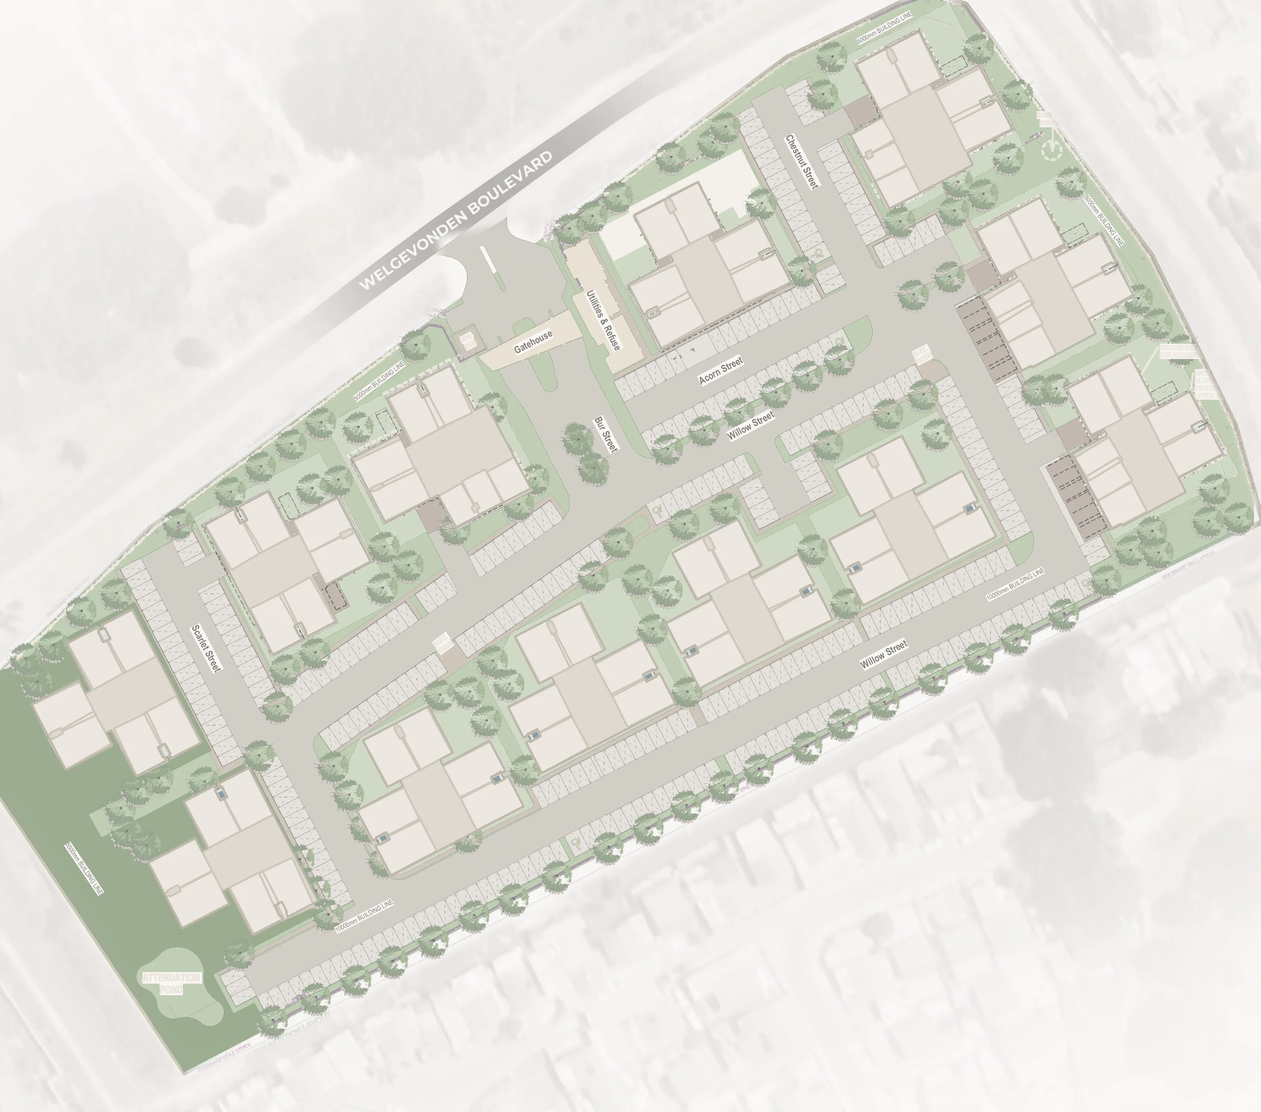
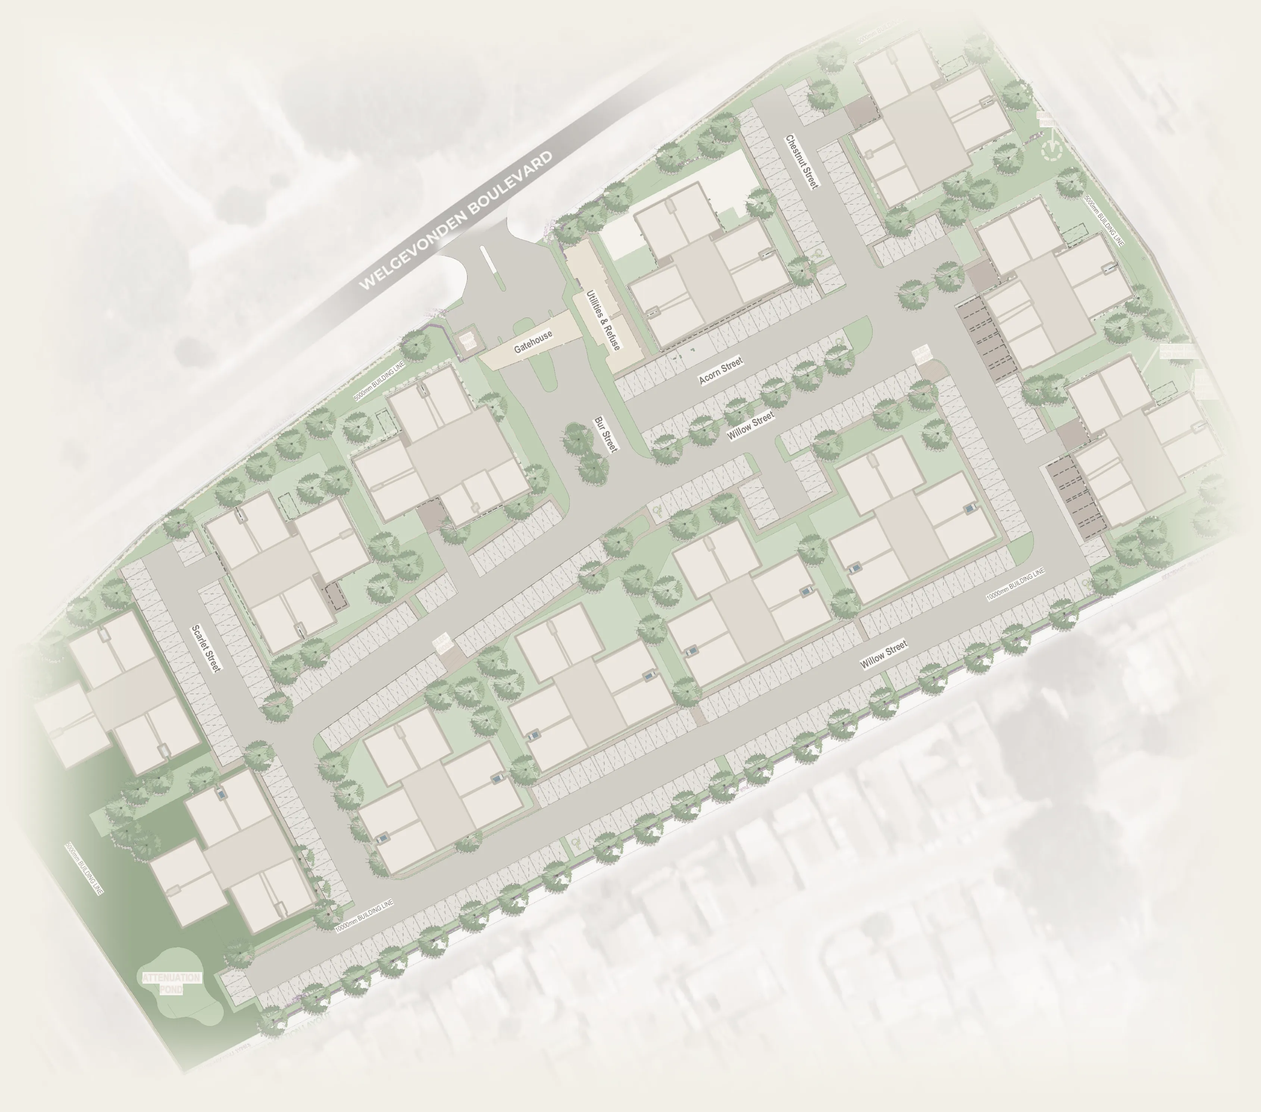
Oak Hills v2: page head/footer code under assets/oh/webflow, background v5 (edges faded to sand-50), bg4.py
Claude-Session: https://claude.ai/code/session_012CY4HeQudsEkw3kkqxBr8g

diff --git a/assets/oh/webflow/oh-v2-head.html b/assets/oh/webflow/oh-v2-head.html
@@ -1,0 +1,257 @@
+<!-- Oak Hills unit selection v2 - state CSS. Component classes live in the Designer; this block holds everything Webflow classes cannot express: attribute selectors, state classes set by heartland-oh.js, JS-generated markup and the mobile drawer. -->
+<meta name="robots" content="noindex, nofollow">
+<script>document.documentElement.classList.add('oh-app-pending');</script>
+<style>
+/* ---- tokens ---- */
+.page_wrap[data-oh-v2]{
+  --oh-available: var(--_colours---success--success-1, #7f9780);
+  --oh-reserved: var(--_colours---warning--warning-2, #ddb365);
+  --oh-sold: var(--_colours---error--error-2, #eb5853);
+  --oh-unreleased: var(--_colours---sand--s-300, #b5b3ad);
+  --oh-type-a: var(--_colours---mahogany--mahogany, #5f4d3f);
+  --oh-type-b: var(--_colours---merlot--m-100, #c7907b);
+  --oh-type-c: var(--_colours---vinyard-night--vn-200, #6f786c);
+  --oh-ink: var(--_colours---mahogany--mahogany, #5f4d3f);
+  --oh-accent: var(--_colours---merlot--m-200, #af6042);
+  --oh-line: var(--_colours---sand--s-100, #dedbd3);
+  --oh-sand: var(--_colours---sand--s-50, #f2efe6);
+}
+.site-plan_card-title,.site-plan_tooltip-id,.unit-details_price,.unit-details_spec-value{font-family:var(--_typography---font--secondary-family, "Tenor Sans", serif)}
+
+/* ---- legend swatches & pills ---- */
+.site-plan_legend-swatch.is-available{background:var(--oh-available)}
+.site-plan_legend-swatch.is-reserved{background:var(--oh-reserved)}
+.site-plan_legend-swatch.is-sold{background:var(--oh-sold)}
+.site-plan_legend-swatch.is-unreleased{background:var(--oh-unreleased)}
+.site-plan_legend-swatch.is-type-a{background:var(--oh-type-a)}
+.site-plan_legend-swatch.is-type-b{background:var(--oh-type-b)}
+.site-plan_legend-swatch.is-type-c{background:var(--oh-type-c)}
+.site-plan_legend-group.is-legend-hidden{display:none}
+html:not(.legends-ready) .site-plan_legend-group[data-legend-group="type"]{display:none}
+.site-plan_pill.is-available{background:var(--oh-available)}
+.site-plan_pill.is-reserved,.site-plan_pill.is-pending{background:var(--oh-reserved);color:var(--oh-ink)}
+.site-plan_pill.is-sold,.site-plan_pill.is-sold-out{background:var(--oh-sold)}
+.site-plan_pill.is-unreleased{background:var(--oh-unreleased);color:var(--oh-ink)}
+
+/* ---- toggles, chips, sort ---- */
+.site-plan_colourby-btn.is-active,.unit-filter_view-btn.is-current{background:#fff;color:var(--oh-ink);box-shadow:0 1px 4px rgba(21,23,20,.12)}
+.site-plan_sort-btn.is-active{background:var(--oh-sand);color:var(--oh-ink)}
+[data-filter][data-value]:hover,[data-toggle]:hover{border-color:var(--oh-ink)}
+[data-filter][data-value].is-active,[data-toggle].is-active{background:var(--oh-ink);border-color:var(--oh-ink);color:#fff}
+[data-filter][data-value].is-active .unit-filter_count,[data-toggle].is-active .unit-filter_count{color:rgba(255,255,255,.7)}
+[data-filter][data-value].is-disabled,[data-toggle].is-disabled{opacity:.4;pointer-events:none;cursor:default}
+[data-filter][data-value].is-coming-soon{opacity:.55;pointer-events:none;cursor:default}
+.unit-filter_soon,.site-plan_legend-soon{display:inline-block;margin-left:.4rem;padding:.1rem .45rem;border-radius:999px;background:var(--oh-sand);color:var(--oh-ink);font-size:.6875rem;line-height:1.4;white-space:nowrap}
+.site-plan_legend-item.is-coming-soon{opacity:.6}
+.site-plan_switch-label{display:inline-flex;align-items:center;padding:0 .5rem 0 .75rem;font-size:.6875rem;letter-spacing:.08em;text-transform:uppercase;color:var(--oh-ink);opacity:.7;white-space:nowrap}
+.unit-filter_more-list.svx-more-collapsed{max-height:0!important;margin:0}
+.unit-filter_more-list.svx-more-open{max-height:none}
+.unit-filter_more-button.is-open .unit-filter_more-icon{transform:rotate(-135deg);margin-top:.25rem}
+
+/* ---- map: block footprints ---- */
+.site-plan_map-svg .site-plan_block{fill:var(--oh-unreleased);fill-opacity:.55;stroke:#fff;stroke-width:2;cursor:pointer;transition:fill .2s,fill-opacity .2s,stroke .2s}
+.is-colour-status .site-plan_block[data-availability="available"]{fill:var(--oh-available);fill-opacity:.7}
+.is-colour-status .site-plan_block[data-availability="sold-out"]{fill:var(--oh-sold);fill-opacity:.55}
+.is-colour-status .site-plan_block[data-availability="unreleased"]{fill:var(--oh-unreleased);fill-opacity:.5}
+.is-colour-type .site-plan_block{fill:var(--oh-type-a);fill-opacity:.55}
+.site-plan_map-svg .site-plan_block:hover{fill-opacity:.9}
+.site-plan_map-svg .site-plan_block.is-selected{stroke:var(--oh-ink);stroke-width:4;fill-opacity:.9}
+.site-plan_map-svg .site-plan_block.is-dimmed{fill-opacity:.15;stroke-opacity:.5}
+/* phase 2: unit-level plots share the same states */
+.site-plan_map-svg .site-plan_plot{cursor:pointer;stroke:#fff;stroke-width:1}
+.is-colour-status .site-plan_plot[data-status="available"]{fill:var(--oh-available)}
+.is-colour-status .site-plan_plot[data-status="reserved"],.is-colour-status .site-plan_plot[data-status="pending"]{fill:var(--oh-reserved)}
+.is-colour-status .site-plan_plot[data-status="sold"]{fill:var(--oh-sold)}
+.is-colour-status .site-plan_plot[data-status="unreleased"]{fill:var(--oh-unreleased)}
+.is-colour-type .site-plan_plot[data-type="A"]{fill:var(--oh-type-a)}
+.is-colour-type .site-plan_plot[data-type="B"]{fill:var(--oh-type-b)}
+.is-colour-type .site-plan_plot[data-type="C"]{fill:var(--oh-type-c)}
+.is-colour-type .site-plan_plot[data-status="unreleased"]{fill:var(--oh-unreleased)}
+@media (hover:hover){.site-plan_map-svg .site-plan_plot{fill-opacity:.72;transition:fill-opacity .15s}.site-plan_map-svg .site-plan_plot:hover,.site-plan_map-svg .site-plan_plot.is-selected{fill-opacity:1}}
+.site-plan_plot.is-dimmed{opacity:.2}
+.site-plan_plot.is-selected{stroke:var(--oh-ink);stroke-width:3}
+.site-plan_map-svg .site-plan_plot[data-status="unreleased"]{cursor:pointer;fill-opacity:.7}.site-plan_map-svg .site-plan_plot[data-status="unreleased"]:hover{fill-opacity:1}
+.site-plan_map-svg .site-plan_plot.is-static{cursor:default}
+.site-plan_tooltip [hidden]{display:none!important}
+.site-plan_map-canvas.has-floors [data-floor]:not(.is-current){display:none}
+.unit-filter_map{position:relative}
+/* labels: unit numbers scale with the plan and fade out when zoomed out; estate labels grow when zoomed out */
+.site-plan_unit-label{font-family:var(--_typography---font--primary-family, "Helvetica Neue", sans-serif);font-size:9px;font-weight:600;fill:#3f3329;pointer-events:none;paint-order:stroke;stroke:rgba(255,255,255,.8);stroke-width:2px;stroke-linejoin:round;opacity:clamp(0,calc((var(--oh-zoom,1) - .65) / .3),1);transition:opacity .2s}
+.site-plan_unit-label.is-bay{font-size:5px;stroke-width:1.2px}
+.site-plan_unit-label[data-status="unreleased"],.site-plan_unit-label.is-dimmed{display:none}
+.site-plan_feature{font-family:var(--_typography---font--primary-family, "Helvetica Neue", sans-serif);font-size:calc(15px / var(--oh-zoom,1));letter-spacing:.06em;text-transform:uppercase;fill:#6b5d50;pointer-events:none;paint-order:stroke;stroke:rgba(246,244,238,.85);stroke-width:calc(4px / var(--oh-zoom,1));opacity:clamp(.35,calc(1.6 - var(--oh-zoom,1) * .7),1)}
+.site-plan_feature.is-street{font-size:calc(13px / var(--oh-zoom,1));fill:#7a6b5d}
+.site-plan_feature.is-road{font-size:calc(19px / var(--oh-zoom,1));fill:#5f4d3f}
+.site-plan_feature.is-area{font-size:calc(24px / var(--oh-zoom,1));fill:#9b9187;letter-spacing:.14em}
+.site-plan_map-canvas:not(.has-floors) [data-layer="features"],.site-plan_map-canvas.has-floors [data-layer="features"]{pointer-events:none}
+/* parking level */
+.site-plan_map-svg .site-plan_bay-free{fill:#fff;fill-opacity:.35;stroke:rgba(95,77,63,.35);stroke-width:.6;pointer-events:none}
+.site-plan_map-svg .site-plan_plot.is-bay{stroke:#fff;stroke-width:.6}
+.site-plan_map-canvas.is-parking-view .site-plan_block{fill-opacity:.12}
+.site-plan_map-canvas.has-floors .site-plan_block{pointer-events:none;fill-opacity:.25}
+.site-plan_map-canvas.has-floors .site-plan_block.is-selected{stroke-width:3}
+.site-plan_floor-switch{position:absolute;left:.75rem;top:.75rem;z-index:5;display:inline-flex;gap:.25rem;padding:.25rem;border-radius:999px;background:#fff;box-shadow:0 4px 14px rgba(21,23,20,.15)}
+.site-plan_floor-btn{display:inline-flex;align-items:center;gap:.35rem;padding:.35rem .75rem;border:0;border-radius:999px;background:transparent;color:var(--oh-ink);font:inherit;font-size:.8125rem;line-height:1;cursor:pointer;transition:background .15s,color .15s}
+.site-plan_floor-btn:hover{background:var(--oh-sand)}
+.site-plan_floor-btn.is-active{background:var(--oh-ink);color:#fff}
+.site-plan_floor-count{font-size:.6875rem;opacity:.65}
+.site-plan_floor-count:empty{display:none}
+@media (max-width:767px){.site-plan_floor-switch{left:.5rem;top:.5rem;padding:.2rem}.site-plan_floor-btn{padding:.3rem .55rem}.site-plan_floor-count{display:none}}
+/* viewport: the container is a fixed-height box, the stage inside carries half-viewport padding, the canvas an explicit px width (heartland-oh.js) */
+.unit-filter_map-container{position:relative;overflow:hidden;height:min(72vh,44rem);background:var(--_colours---backgrounds--white,#fff);border-radius:var(--radius--main,.75rem);cursor:grab;touch-action:none;overscroll-behavior:contain}
+.unit-filter_map-container.is-panning{cursor:grabbing}
+.site-plan_map{display:block;width:max-content;min-width:100%;overflow:visible}
+.site-plan_map-canvas{position:relative;width:1200px;min-width:0;margin:0;aspect-ratio:1690/1490}
+.site-plan_map-canvas .site-plan_map-image{display:block;width:100%;height:auto}
+.site-plan_zoom{position:absolute;right:.75rem;bottom:.75rem;z-index:5;display:inline-flex;align-items:center;gap:.25rem;padding:.25rem;border-radius:999px;background:#fff;box-shadow:0 4px 14px rgba(21,23,20,.15)}
+.site-plan_zoom-btn{display:inline-flex;align-items:center;justify-content:center;width:2rem;height:2rem;border:0;border-radius:999px;background:transparent;color:var(--oh-ink);cursor:pointer}
+.site-plan_zoom-btn:disabled{opacity:.35;cursor:default}
+.site-plan_zoom-btn svg{width:1.1rem;height:1.1rem;fill:none;stroke:currentColor;stroke-width:1.8;stroke-linecap:round;stroke-linejoin:round}
+.site-plan_zoom-level{min-width:3rem;text-align:center;font-size:.75rem;color:var(--oh-ink)}
+.site-plan_tooltip.is-visible{opacity:1}
+
+/* ---- detail panel ---- */
+.site-plan_detail-wrap.is-open{visibility:visible;opacity:1;pointer-events:auto;transition:opacity .25s}
+.site-plan_detail-wrap.is-open .site-plan_detail-panel{transform:none}
+.unit-details_nav-link.is-active{color:var(--oh-ink);border-bottom-color:var(--oh-ink)}
+.unit-details_stage .ud-media{display:block;width:100%;height:100%;object-fit:cover}
+.ud-playbtn,.ud-expand{position:absolute;display:flex;align-items:center;justify-content:center;border-radius:999px;background:rgba(255,255,255,.92);color:var(--oh-ink);cursor:pointer;box-shadow:0 4px 14px rgba(21,23,20,.18)}
+.ud-playbtn{top:50%;left:50%;width:3.5rem;height:3.5rem;transform:translate(-50%,-50%)}
+.ud-expand{right:.75rem;bottom:.75rem;width:2.25rem;height:2.25rem}
+.ud-playbtn svg,.ud-expand svg{width:45%;height:45%}
+.unit-details_thumbnail{position:relative;flex:0 0 4.5rem;height:3.25rem;overflow:hidden;border-radius:.375rem;border:2px solid transparent;cursor:pointer;opacity:.75;transition:opacity .15s,border-color .15s}
+.unit-details_thumbnail img,.unit-details_thumbnail video{width:100%;height:100%;object-fit:cover;display:block}
+.unit-details_thumbnail.is-current{opacity:1;border-color:var(--oh-ink)}
+.unit-details_thumb-badge{position:absolute;right:.25rem;bottom:.25rem;width:1.1rem;height:1.1rem;color:#fff;filter:drop-shadow(0 1px 2px rgba(0,0,0,.5))}
+.unit-details_thumb-badge svg{width:100%;height:100%}
+.unit-details_floorplan-image img,.unit-details_block-image img{display:block;width:100%;height:auto}
+html:not(.sales-open) [data-sales-ui]{display:none!important}
+html:not(.sales-open) [data-prelaunch-ui]{display:inline-flex}
+[data-prelaunch-ui]{display:none}
+
+/* ---- lightboxes (built by heartland-oh.js) ---- */
+.ud-lightbox,.fp-lightbox{position:fixed;inset:0;z-index:2147483100;display:none;align-items:center;justify-content:center;background:rgba(21,23,20,.92)}
+.ud-lightbox.is-open,.fp-lightbox.is-open{display:flex}
+.unit-details_floorplan-image img[src=""],.unit-details_floorplan-image img:not([src]){display:none}
+.ud-lightbox_stage{width:min(92vw,1200px);height:min(86vh,800px);display:flex;align-items:center;justify-content:center}
+.ud-lightbox_stage img,.ud-lightbox_stage video,.ud-lightbox_stage iframe{max-width:100%;max-height:100%;width:auto;height:auto;border:0}
+.ud-lightbox_stage iframe{width:100%;height:100%}
+.ud-lb-btn,.fp-lightbox_close{position:absolute;display:flex;align-items:center;justify-content:center;width:2.75rem;height:2.75rem;border:0;border-radius:999px;background:rgba(255,255,255,.14);color:#fff;font-size:1.5rem;line-height:1;cursor:pointer}
+.ud-lb-close,.fp-lightbox_close{top:1rem;right:1rem}
+.ud-lb-prev{left:1rem;top:50%;transform:translateY(-50%)}
+.ud-lb-next{right:1rem;top:50%;transform:translateY(-50%)}
+.ud-lb-counter{position:absolute;bottom:1rem;left:50%;transform:translateX(-50%);color:rgba(255,255,255,.75);font-size:.8125rem}
+.fp-zoom{width:min(92vw,1100px);max-height:88vh;overflow:auto;background:#fff;border-radius:.5rem;cursor:zoom-in}
+.fp-zoom img{display:block;width:100%;height:auto}
+.fp-zoom.is-zoomed{cursor:zoom-out}
+.fp-zoom.is-zoomed img{width:auto;max-width:none}
+.reservation-status{font-size:.9rem}
+
+/* ---- app shell: no page scroll; sidebar (brand + filters) | plan | list; footer bar ---- */
+html.oh-app-pending .page_wrap{visibility:hidden;animation:oh-reveal 0s 3s forwards}
+@keyframes oh-reveal{to{visibility:visible}}
+html:has(.page_wrap[data-oh-v2]){overflow:hidden;height:100%}
+html:has(.page_wrap[data-oh-v2]) body{overflow:hidden;height:100%}
+.page_wrap[data-oh-v2]{height:100vh;height:100dvh;overflow:hidden;display:flex;flex-direction:column}
+.page_wrap[data-oh-v2] .navbar_component,.page_wrap[data-oh-v2] .section.is-footer,.page_wrap[data-oh-v2] .section.is-unit-selection-v2{display:none}
+.page_wrap[data-oh-v2] .page_main{flex:1 1 auto;min-height:0;display:flex;flex-direction:column}
+.page_wrap[data-oh-v2] .section.is-site-plan{flex:1 1 auto;min-height:0;padding:0;display:flex;flex-direction:column}
+.page_wrap[data-oh-v2] .section.is-site-plan .u-container{max-width:none;width:100%;flex:1 1 auto;min-height:0;display:flex;flex-direction:column}
+.page_wrap[data-oh-v2] .container-padding.is-unit-selector{padding:0;flex:1 1 auto;min-height:0;display:flex;flex-direction:column}
+.unit-filter_component{flex:1 1 auto;min-height:0;display:grid;gap:0;height:auto;background:#fff;align-items:stretch;justify-items:stretch}
+.unit-filter_brand{grid-area:brand}
+.unit-filter_filters{grid-area:filters}
+.unit-filter_main{grid-area:main;min-height:0;display:flex;flex-direction:column;position:relative}
+.site-plan_list-wrap{grid-area:list;min-height:0;display:flex;flex-direction:column}
+.unit-filter_footer{grid-area:footer}
+.unit-filter_map{flex:1 1 auto;min-height:0;display:flex;flex-direction:column;position:relative}
+.unit-filter_map-container{flex:1 1 auto;min-height:0;height:auto;border-radius:0;background:var(--oh-sand)}
+.site-plan_list-head{flex:none;padding:.9rem 1rem .6rem;border-bottom:1px solid var(--oh-line)}
+.site-plan_list{flex:1 1 auto;min-height:0;overflow:auto;overscroll-behavior:contain;padding:1rem;grid-template-columns:1fr;grid-template-rows:none;grid-auto-rows:max-content;align-content:start}
+/* filters: the head stays put, only the chips scroll */
+.unit-filter_filters{display:flex;flex-direction:column;min-height:0;overflow:hidden;padding:0}
+.unit-filter_filters .unit-filter_inner{display:flex;flex-direction:column;min-height:0;flex:1 1 auto}
+.unit-filter_head{flex:none;padding:.75rem 1.25rem;border-bottom:1px solid var(--oh-line)}
+.unit-filter_scroll{flex:1 1 auto;min-height:0;overflow:auto;overscroll-behavior:contain;padding:1rem 1.25rem 1.5rem}
+/* colour-by + legend float on the plan */
+.unit-filter_map .site-plan_toolbar{position:absolute;top:.75rem;right:.75rem;z-index:6;display:flex;flex-direction:column;align-items:flex-end;gap:.5rem;pointer-events:none;max-width:calc(100% - 1.5rem)}
+.unit-filter_map .site-plan_toolbar>*{pointer-events:auto}
+.unit-filter_map .site-plan_colourby{background:#fff;border-radius:999px;box-shadow:0 4px 14px rgba(21,23,20,.15)}
+.unit-filter_map .site-plan_legend{background:rgba(255,255,255,.92);border-radius:.75rem;padding:.45rem .8rem;box-shadow:0 4px 14px rgba(21,23,20,.12);font-size:.8125rem}
+@media (min-width:992px){
+  /* the brand row is a fixed track: the plan and list span rows 1-2, and an auto track would grow to their content */
+  .unit-filter_component{grid-template-columns:16rem minmax(0,1fr) 20rem;grid-template-rows:6.5rem minmax(0,1fr) auto;grid-template-areas:"brand main list" "filters main list" "footer footer footer"}
+  .unit-filter_brand{height:6.5rem;overflow:hidden;justify-content:center;padding:0 1.25rem}
+  .unit-filter_main,.site-plan_list-wrap{overflow:hidden}
+  .unit-filter_brand,.unit-filter_filters{border-right:1px solid var(--oh-line)}
+  .site-plan_list-wrap{border-left:1px solid var(--oh-line)}
+  .unit-filter_mobile-toolbar,.unit-filter_mobile-map-meta{display:none}
+}
+@media (min-width:1280px){.unit-filter_component{grid-template-columns:17rem minmax(0,1fr) 22rem}}
+/* ---- detail panel: sticky actions, above the chat widget ---- */
+.site-plan_detail-wrap{z-index:2147483000}
+.site-plan_detail-panel{display:flex;flex-direction:column}
+.unit-details_body{flex:1 1 auto}
+.unit-details_actionbar{position:sticky;bottom:0;padding-bottom:calc(.875rem + env(safe-area-inset-bottom,0px))}
+.unit-details_actionbar .button{width:100%;justify-content:center}
+.unit-details_fp-img[src=""],.unit-details_fp-img:not([src]){display:none}
+/* the block: render + level highlight, estate + block highlight */
+.unit-details_block-image.has-ud-block>img{display:none}
+.ud-block{display:grid;gap:1rem}
+.ud-block_fig{margin:0}
+.ud-block_stack{position:relative;overflow:hidden;border-radius:.5rem;background:var(--oh-sand)}
+.ud-block_base{display:block;width:100%;height:auto}
+.ud-block_overlay{position:absolute;inset:0;width:100%;height:100%;object-fit:fill;pointer-events:none}
+.ud-block_cap{margin-top:.4rem;font-size:.8125rem;color:var(--_colours---blacks--b-150,#7e7e7d)}
+/* tooltip: status as the same pill as the cards */
+.site-plan_tooltip .site-plan_pill{display:inline-block;padding:.25rem .625rem;border-radius:999px;font-size:.75rem;line-height:1.5;letter-spacing:.04em;text-transform:uppercase;color:#fff;background:var(--oh-unreleased)}
+/* chips: coming soon replaces the count; a fully reserved/sold block reads so */
+[data-filter][data-value].is-coming-soon .unit-filter_count,.site-plan_legend-item.is-coming-soon .site-plan_legend-count{display:none}
+[data-filter][data-value].is-taken{grid-column:span 2;width:100%;min-width:0;display:inline-flex;align-items:center;justify-content:center;gap:.35rem;border-radius:999px;padding:0 .5rem}
+[data-filter][data-value].is-taken .unit-filter_count{font-size:.625rem;letter-spacing:.01em;color:var(--oh-sold);white-space:nowrap;margin:0}
+[data-filter][data-value].is-coming-soon>span:first-child{white-space:nowrap}
+/* coming-soon / reserve popups: unit details left, form right */
+#notify-unit-v2 .modal-content,#reserve-unit-v2 .modal-content{max-width:72rem}
+#notify-unit-v2 .contact-2-col-stack,#reserve-unit-v2 .contact-2-col-stack{display:grid;grid-template-columns:minmax(0,1.1fr) minmax(0,1fr);gap:2.5rem 3rem;align-items:start}
+#notify-unit-v2 .contact-2-col-stack>.content-cell,#reserve-unit-v2 .contact-2-col-stack>.content-cell{min-width:0}
+#notify-unit-v2 .form-main-wrapper,#reserve-unit-v2 .form-main-wrapper{gap:1.1rem}
+#notify-unit-v2 [data-notify="fields"],#notify-unit-v2 [data-notify="fields"] .content-cell{display:flex;flex-direction:column;gap:1.1rem}
+#notify-unit-v2 ._2-col-input-stack{display:grid;grid-template-columns:repeat(2,minmax(0,1fr));gap:1rem}
+#notify-unit-v2 .form_main_field_wrap,#reserve-unit-v2 .form_main_field_wrap{display:flex;flex-direction:column;gap:.35rem}
+#notify-unit-v2 [type="submit"],#notify-unit-v2 .w-button,#reserve-unit-v2 [type="submit"],#reserve-unit-v2 .w-button{margin-top:1.25rem}
+@media (max-width:767px){#notify-unit-v2 .contact-2-col-stack,#reserve-unit-v2 .contact-2-col-stack{grid-template-columns:1fr;gap:1.75rem}#notify-unit-v2 ._2-col-input-stack{grid-template-columns:1fr}}
+
+/* ---- tablet & mobile: brand bar, Plan|List toolbar, one pane, footer ---- */
+@media (max-width:991px){
+  .unit-filter_component{grid-template-columns:1fr;grid-template-rows:auto auto auto minmax(0,1fr) auto;grid-template-areas:"brand" "mtoolbar" "mmeta" "main" "footer"}
+  .unit-filter_brand{flex-direction:row;align-items:center;justify-content:space-between;padding:.75rem 1rem;border-bottom:1px solid var(--oh-line)}
+  .unit-filter_brand-logo{width:6.5rem}
+  .unit-filter_mobile-toolbar{grid-area:mtoolbar;display:flex;padding:.6rem 1rem 0}
+  .unit-filter_mobile-map-meta{grid-area:mmeta;display:flex;align-items:center;gap:.75rem;min-height:1.5rem;padding:.35rem 1rem .5rem}
+  .unit-filter_mobile-match{font-size:.875rem;color:var(--oh-ink)}
+  .unit-filter_backdrop{display:block}
+  .unit-filter_backdrop.is-open{opacity:1;pointer-events:auto;z-index:2147483000}
+  .unit-filter_filters{position:fixed;top:0;right:0;bottom:0;z-index:2147483001;width:min(22rem,90vw);max-height:none;background:#fff;box-shadow:-20px 0 60px rgba(21,23,20,.2);transform:translateX(100%);transition:transform .3s}
+  .unit-filter_filters.is-open{transform:none}
+  .unit-filter_close{display:flex}
+  .site-plan_list-wrap{grid-area:main}
+  .unit-filter_component.is-view-list .unit-filter_map,.unit-filter_component.is-view-list .unit-filter_map-container,.unit-filter_component.is-view-list .site-plan_zoom,.unit-filter_component.is-view-list .site-plan_floor-switch,.unit-filter_component.is-view-list .unit-filter_main{display:none}
+  .unit-filter_component:not(.is-view-list) .site-plan_list-wrap{display:none}
+  .page_wrap.is-view-list .site-plan_colourby{display:none}
+  .unit-filter_map .site-plan_toolbar{position:static;flex-direction:row;flex-wrap:wrap;align-items:center;justify-content:space-between;gap:.5rem .75rem;padding:0 1rem .5rem;max-width:none}
+  .unit-filter_map .site-plan_colourby,.unit-filter_map .site-plan_legend{box-shadow:none;background:var(--oh-sand);border-radius:999px}
+  /* the level switch sits in the flow above the map (the toolbar occupies the top of the wrap) */
+  .unit-filter_map .site-plan_toolbar{order:0}
+  .unit-filter_map .site-plan_floor-switch{position:static;order:1;align-self:flex-start;margin:0 1rem .5rem;box-shadow:none;background:var(--oh-sand)}
+  .unit-filter_map .unit-filter_map-container{order:2}
+  .site-plan_list{grid-template-columns:repeat(2,minmax(0,1fr))}
+  .site-plan_detail-panel{max-width:none}
+  .unit-details_body{padding:1.25rem 1.25rem 3rem}
+  .unit-details_specs{grid-template-columns:repeat(2,minmax(0,1fr))}
+  .unit-filter_footer{flex-direction:column;align-items:flex-start;gap:.15rem;padding:.4rem 1rem}
+  .unit-filter_footer-text.is-right{text-align:left}
+}
+@media (max-width:767px){
+  .site-plan_list{grid-template-columns:1fr}
+}
+</style>

diff --git a/assets/oh/webflow/oh-v2-footer.html b/assets/oh/webflow/oh-v2-footer.html
@@ -1,0 +1,14 @@
+<!-- Oak Hills unit selection v2 - controller. Source: github.com/daniellun-tov/heartland-scripts, branch oh, heartland-oh.js. Release = push, paste the new commit SHA below (and in the map svg's data-svg-src when the plan changed), publish. -->
+<script>
+(function(){
+  var API='https://x7aj-untn-pq4t.n7e.xano.io/api:BHoGDH-q';
+  var html=document.documentElement;
+  html.classList.add('sales-open');
+  fetch(API+'/site-settings').then(function(r){return r.json();}).then(function(s){
+    var open=!s||s.sales_open!==false;
+    html.classList.toggle('sales-open',open);
+    document.dispatchEvent(new CustomEvent('oh:sales-phase',{detail:{open:open}}));
+  }).catch(function(){});
+})();
+</script>
+<script src="https://cdn.jsdelivr.net/gh/daniellun-tov/heartland-scripts@72e1c9a58b8f810191d866c9de9e24eb29791e2e/heartland-oh.js" defer></script>

diff --git a/assets/oh/tools/bg4.py b/assets/oh/tools/bg4.py
@@ -1,0 +1,17 @@
+# bg4: bg3 with the outer edges faded to sand-50 (#f2efe6) so the plan has no visible border
+import numpy as np
+from PIL import Image
+im=np.asarray(Image.open('bg3-full.png').convert('RGB')).astype(np.float32)
+h,w=im.shape[:2]
+sand=np.array([242,239,230],np.float32)
+# distance to the nearest edge, normalised; fade over the outer 11% of each axis with a smoothstep
+y=np.arange(h)[:,None]; x=np.arange(w)[None,:]
+dx=np.minimum(x,w-1-x)/(0.11*w); dy=np.minimum(y,h-1-y)/(0.11*h)
+d=np.minimum(np.minimum(dx,dy),1.0)
+t=d*d*(3-2*d)             # 0 at the edge -> 1 inside
+a=t[...,None]
+out=im*a+sand*(1-a)
+u8=np.clip(out+0.5,0,255).astype(np.uint8)
+Image.fromarray(u8).save('bg4-full.png'); Image.fromarray(u8).save('bg4-3380.webp',quality=80)
+Image.fromarray(u8).resize((845,745),Image.LANCZOS).save('bg4-preview.png')
+print(u8.shape)
